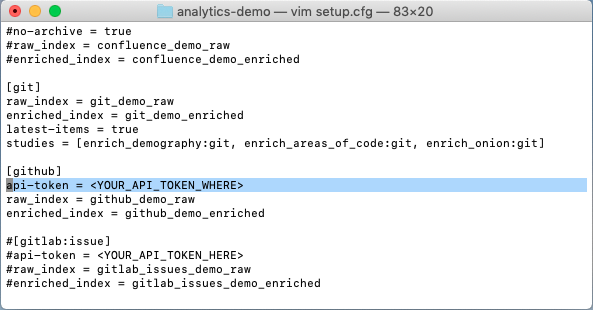
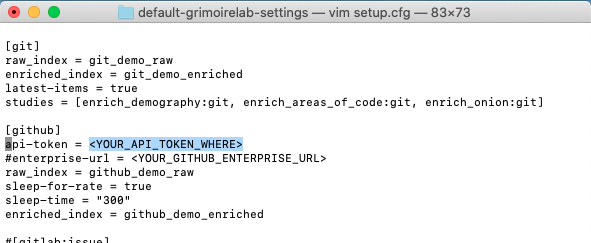
update install-grimoirelab blog post

Changed region(s): [[0.0, 0.0, 1.0, 0.4897], [0.0, 0.5185, 1.0, 0.9506], [0.0, 0.9794, 1.0, 1.0]]

diff --git a/Community/News/20191007-install-grimoirelab.md b/Community/News/20191007-install-grimoirelab.md
@@ -35,40 +35,42 @@ I found that by default, Docker is not assigned enough resources. Click on the D
 
 ![2. Screenshot of Docker configuration.png](https://raw.githubusercontent.com/chaoss/website/master/Community/News/images/20191007-install-grimoirelab/2-Screenshot-Docker-configuration.png)
 
-Next, we need the docker-compose file and some setting files. They are currently in Bitergia’s [analytics-demo repository](https://gitlab.com/Bitergia/lab/analytics-demo) but will be added to the GrimoireLab Tutorial, [hopefully soon](https://github.com/chaoss/grimoirelab-tutorial/issues/91). We need to clone the repository to our local machine. I have my own way of organizing repositories that I clone, but it really does not matter where you store it. The important command to run now are for cloning the repository:
+Next, we need the docker-compose file and some setting files. They are currently in the [CHAOSS GrimoireLab repository](https://github.com/chaoss/grimoirelab). We need to clone the repository to our local machine. I have my own way of organizing repositories that I clone, but it really does not matter where you store it. The important command to run now are for cloning the repository:
 
 ```
-$ git clone https://gitlab.com/Bitergia/lab/analytics-demo.git
-$ cd analytics-demo 
+$ git clone https://github.com/chaoss/grimoirelab
+$ cd grimoirelab
 ```
 
 
 ![3. Screenshot of cloning analytics-demo](https://raw.githubusercontent.com/chaoss/website/master/Community/News/images/20191007-install-grimoirelab/3-Screenshot-of-cloning-analytics-demo.png)
 
 
-The files that we just downloaded, specifically the [projects.json](https://gitlab.com/Bitergia/lab/analytics-demo/blob/master/projects.json), are configured to collect metrics about Cregit, Perceval, and Women in IT. Maybe take a look at the relevant [GrimoireLab tutorial section on the projects file](https://chaoss.github.io/grimoirelab-tutorial/sirmordred/projects.html) for details on how the file is built. For simplicity, I’m only leaving Perceval in the file and removing the other projects. 
+GrimoireLab comes with default settings that we want to review. Change directory into `grimoirelab/default-grimoirelab-settings`. The [projects.json](https://github.com/chaoss/grimoirelab/blob/master/default-grimoirelab-settings/projects.json) is configured to collect metrics about the GrimoireLab git repository. Maybe take a look at the relevant [GrimoireLab tutorial section on the projects file](https://chaoss.github.io/grimoirelab-tutorial/sirmordred/projects.html) for details on how the file is built. 
 
+With the current settings, we would analyze only the git commit history. I am also interested in analyzing issues and pull requests. For this, edit the projects.json and add:
 
-![4. Screenshot of projects.json](https://raw.githubusercontent.com/chaoss/website/master/Community/News/images/20191007-install-grimoirelab/4-Screenshot-of-projects.json.png)
+```
+        "github": [
+            "https://github.com/chaoss/grimoirelab"
+        ]
+```
 
+![projects.json with the added lines](https://raw.githubusercontent.com/chaoss/website/master/Community/News/images/20191007-install-grimoirelab/4-Screenshot-of-projects.json)
 
 **Pro-tip:** After editing the projects.json file, send it through a JSON validator (e.g., [JSONLint](https://jsonlint.com/), or [FreeFormatter](https://www.freeformatter.com/json-validator.html)) to check for syntax errors. 
 
-Next, we need to make sure that we have API access tokens set up correctly in the [setup.cfg](https://gitlab.com/Bitergia/lab/analytics-demo/blob/master/setup.cfg) file. The projects.json specifies GitHub, git, and pipermail as data sources. Of those, only [GitHub requires an API token](https://help.github.com/en/articles/creating-a-personal-access-token-for-the-command-line#creating-a-token), which can be generated in your [GitHub settings > Developer settings > Personal access tokens](https://github.com/settings/tokens). We can generate the API token without selecting a scope (i.e., do not check any boxes).
+Next, we need to make sure that we have API access tokens set up correctly in the [setup.cfg](https://github.com/chaoss/grimoirelab/blob/master/default-grimoirelab-settings/setup.cfg) file. The projects.json specifies only `git` as data sources. To activate data collection for GitHub issues and pull requests, we have to un-comment the relevant section. For this, [GitHub requires an API token](https://help.github.com/en/articles/creating-a-personal-access-token-for-the-command-line#creating-a-token), which can be generated in your [GitHub settings > Developer settings > Personal access tokens](https://github.com/settings/tokens). We can generate the API token without selecting a scope (i.e., do not check any boxes).
 
 
 ![5. Screenshot for GitHub API YOUR_API_TOKEN_HERE](https://raw.githubusercontent.com/chaoss/website/master/Community/News/images/20191007-install-grimoirelab/5-Screenshot-for-GitHub-API-token.png)
 
-We need to make one more change because we removed the data source Meetup.com. We need to comment out (by putting “#” at the start of each line) the meetup configuration.
+Now, we have configured GrimoireLab to begin collecting data. We configured what projects to collect data for the [projects.json](https://github.com/chaoss/grimoirelab/blob/master/default-grimoirelab-settings/projects.json) and configured our access to the relevant data sources in the [setup.cfg](https://github.com/chaoss/grimoirelab/blob/master/default-grimoirelab-settings/setup.cfg).
 
-
-![6. Screenshot comment out meetup configuration](https://raw.githubusercontent.com/chaoss/website/master/Community/News/images/20191007-install-grimoirelab/6-Screenshot-comment-out-meetup-configuration.png)
-
-Now, we have configured GrimoireLab to begin collecting data. We configured what projects to collect data for the [projects.json](https://gitlab.com/Bitergia/lab/analytics-demo/blob/master/projects.json) and configured our access to the relevant data sources in the [setup.cfg](https://gitlab.com/Bitergia/lab/analytics-demo/blob/master/setup.cfg).
-
-Next, we can begin downloading and starting the containers. If you like, you can review the [docker-compose.yml](https://gitlab.com/Bitergia/lab/analytics-demo/blob/master/docker-compose.yml) file to see what is going to happen. There are no changes needed here. Now, to start making magic happen (pun intended), let’s run:
+Next, we can begin downloading and starting the containers. First, we need to switch to the `docker-compose` directory. If you like, you can review the [docker-compose.yml](https://github.com/chaoss/grimoirelab/blob/master/docker-compose/docker-compose.yml) file to see what is going to happen. There are no changes needed here. Now, to start making magic happen (pun intended), let’s run:
 
 ```
+$ cd ../docker-compose
 $ docker-compose up -d
 ```
 
@@ -116,3 +118,5 @@ Next steps for the CHAOSS project include updating our [GrimoireLab tutorial](ht
 Getting community metrics through GrimoireLab can feel like drinking from a firehose. I recommend you [review the CHAOSS metrics](https://chaoss.community/metrics/) and [join our regular calls](https://chaoss.github.io/grimoirelab-tutorial/) to get your bearings on what metrics are relevant and to discuss your specific needs with other CHAOSS members.
 
 Don’t want to operate the metrics platform yourself and prefer a hosted solution? Need expert guidance through developing your metrics strategy? [Send me an email](mailto:georglink@bitergia.com) and we can discuss whether Bitergia’s services are a good match for your needs.
+
+**[Update 11/8]**: Changed the blog post to use the new docker-compose solution that is now part of GrimoireLab.
